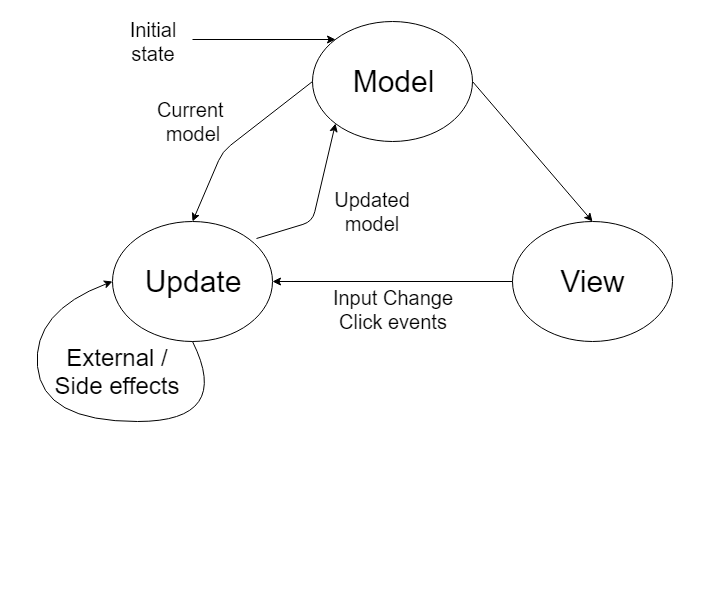
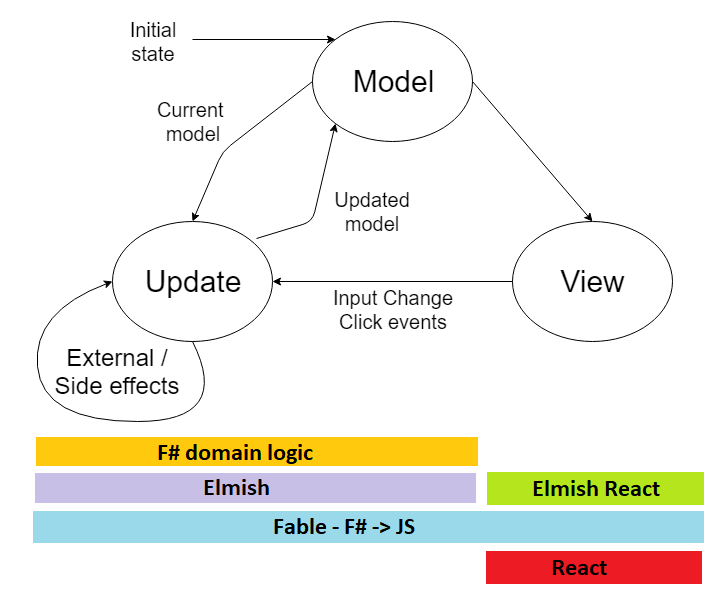
Added stuff

Changed region(s): [[0.0306, 0.7273, 0.9791, 1.0]]

diff --git a/full-stack-development/md/safe1.md b/full-stack-development/md/safe1.md
@@ -9,17 +9,17 @@
 
 Abstractions that can be used to build applications following the “model view update” style of architecture, as made famous by Elm.
 
-- Model `: Model` - Application's state, immutable
-- Message `: Msg` - change in application state
-- Command `: Cmd<Msg>` - When evaluated may produce message(s)
+- Model: `Model` - Application's state, immutable
+- Message: `Msg` - change in application state
+- Command: `Cmd<Msg>` - When evaluated may produce message(s)
 
 ---
 
-- Init `: unit -> Model * Cmd<Msg>`
+- Init: `unit -> Model * Cmd<Msg>`
 - - produces the inital applications state and commands
-- Update `: Msg -> Model -> Model * Cmd<Msg>`
+- Update: `Msg -> Model -> Model * Cmd<Msg>`
 - - produces new state of application given the previous and message
-- View `: Model -> (Msg -> unit) -> 'ui `
+- View: `Model -> (Msg -> unit) -> 'ui `
 - - produces a new UI layout/content given the current state.
 
 ---

diff --git a/full-stack-development/md/safe3.md b/full-stack-development/md/safe3.md
@@ -1,9 +1,5 @@
 
-### Fable and Elmish
-
-![Elmish](full-stack-development/assets/img/elmishLayers.png)
-
-https://safe-stack.github.io/docs/component-elmish/
+![FableElmish](full-stack-development/assets/img/mvuFable.png)
 
 ---
 
@@ -17,11 +13,11 @@ How applications tend to be hosted.
 
 ---
 
-### S - Saturn (/Suave/Giraffe)
+### S - Saturn
 
 - Server-side MVC web development framework written in F#, heavily inspired by Elixir's Phoenix.
 
-- Commonly used with ASP.NET Core, served by Kestrel. Can be used with Giraffe.
+- Top-level abstractions over ASP.NET Core, served by Kestrel.
 
 - Includes scaffolding tools for rapid application development
 
